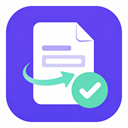
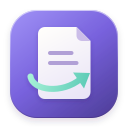
design: finalize soft ApplyFlow brand and verified controlled demo assets

diff --git a/content/content.js b/content/content.js
@@ -1,4 +1,6 @@
 (function initializeApplyFlowContent() {
+  // Generated from icons/brand.svg by scripts/export-brand.mjs.
[1 lines of base64/hex data omitted]
   if (globalThis.__applyFlowContentReady) {
     ensureOrb();
     scanPage().then(updateOrbCount);
@@ -791,7 +793,10 @@
     button.className = "applyflow-orb";
     button.type = "button";
     button.title = "打开 ApplyFlow";
-    button.textContent = "AF";
+    const brandImage = document.createElement("img");
+    brandImage.src = APPLYFLOW_BRAND_ICON_DATA;
+    brandImage.alt = "";
+    button.appendChild(brandImage);
     button.dataset.count = "0";
     button.addEventListener("click", async () => {
       button.disabled = true;

diff --git a/docs/brand/desk/form.html b/docs/brand/desk/form.html
@@ -1,0 +1,36 @@
+<!doctype html>
+<html lang="zh-CN">
+<head>
+  <meta charset="utf-8"><meta name="viewport" content="width=device-width, initial-scale=1">
+  <title>虚构校园招聘测试表单</title>
+  <link rel="stylesheet" href="/source/content/content.css">
+  <script src="bridge.js"></script>
+  <style>
+    *{box-sizing:border-box}body{margin:0;background:#fff;color:#282b40;font-family:-apple-system,BlinkMacSystemFont,'Segoe UI','Microsoft YaHei',sans-serif}.brand{height:66px;border-bottom:1px solid #eeedf3;display:flex;align-items:center;justify-content:space-between;padding:0 32px;font-weight:650;font-size:16px}.brand small{font-size:11px;color:#9899a8;font-weight:400}.content{padding:30px 32px 46px}.eyebrow{font-size:11px;color:#8c8e9f;letter-spacing:1px}h1{font-size:25px;margin:10px 0;font-weight:650;letter-spacing:-.5px}.meta{font-size:12px;color:#8a8b9d;margin:0 0 26px}.steps{display:flex;align-items:center;gap:13px;font-size:11px;color:#999baa;border-bottom:1px solid #eeedf3;padding-bottom:20px}.steps span:first-child{color:#6250e7;font-weight:650}.steps i{width:26px;height:1px;background:#dedee8}h2{font-size:14px;margin:24px 0 16px}h2::before{content:'';display:inline-block;width:3px;height:13px;border-radius:2px;background:#7c69ea;margin-right:8px;vertical-align:-1px}.grid{display:grid;grid-template-columns:1fr 1fr;gap:18px 20px}label{display:block;font-size:11px;color:#737589}label em{font-style:normal;color:#a4a5b3;margin-left:3px}input,select,textarea{font:inherit;font-size:13px;color:#373a50;display:block;margin-top:8px;height:41px;padding:0 12px;width:100%;border:1px solid #e0e1e9;border-radius:7px;background:#fff;outline:none;transition:border-color .2s,background .2s}input:focus,select:focus,textarea:focus{border-color:#8b7ce6;box-shadow:0 0 0 2px #6250e714}input::placeholder,textarea::placeholder{color:#b3b4c0}textarea{padding:12px;min-height:80px;resize:vertical}.wide{grid-column:1/-1}.caption{margin:9px 0 0;font-size:10px;line-height:1.6;color:#a2a3b0}.bottom{border-top:1px solid #efeff5;margin-top:25px;padding-top:17px;display:flex;align-items:center;justify-content:space-between}.bottom span{font-size:10px;color:#a2a3b0}.bottom button{font:inherit;font-size:11px;color:#9fa0ad;background:#f1f1f6;border:0;border-radius:7px;padding:10px 16px}.applyflow-filled{border-color:#4cae91!important;background:#f7fcfa!important;box-shadow:0 0 0 1px #4cae9110!important}@media(max-width:500px){.brand{padding:0 22px}.content{padding:24px 22px}.grid{gap:16px 14px}h1{font-size:23px}}
+  </style>
+</head>
+<body>
+  <header class="brand">青禾科技 <small>虚构测试招聘页面</small></header>
+  <main class="content">
+    <div class="eyebrow">2027 CAMPUS RECRUITMENT</div><h1>软件研发工程师</h1><p class="meta">技术研发 · 上海 · 校园招聘</p>
+    <nav class="steps"><span>01 基本资料</span><i></i><span>02 经历与能力</span><i></i><span>03 预览申请</span></nav>
+    <form onsubmit="event.preventDefault()">
+      <section><h2>个人信息</h2><div class="grid">
+        <label>中文姓名<em>*</em><input name="candidateName" placeholder="请输入姓名" autocomplete="off"></label>
+        <label>当前城市<input name="currentCity" placeholder="请输入现居城市" autocomplete="off"></label>
+        <label>手机号码<em>*</em><input name="mobile" placeholder="请输入手机号码" autocomplete="off"></label>
+        <label>电子邮箱<em>*</em><input type="email" name="email" placeholder="请输入电子邮箱" autocomplete="off"></label>
+      </div></section>
+      <section id="educationSection"><h2>教育经历</h2><div class="grid">
+        <label>院校名称<em>*</em><input name="school-1" placeholder="请输入院校名称" autocomplete="off"></label>
+        <label>所学专业<em>*</em><input name="major-1" placeholder="请输入所学专业" autocomplete="off"></label>
+        <label>学历<em>*</em><select name="education-1" aria-label="学历"><option value="">请选择学历</option><option>本科</option><option>硕士研究生</option><option>博士研究生</option></select></label>
+        <label>预计毕业时间<em>*</em><input type="month" name="eduEnd-1"></label>
+      </div></section>
+      <section><h2>补充信息</h2><div class="grid"><label class="wide">招聘信息来源<select id="recruitmentSource" name="recruitmentSource" aria-label="招聘信息来源"><option value="">请选择实际了解渠道</option><option>学校就业平台</option><option>企业官网</option><option>校园宣讲会</option></select></label></div><p class="caption">请根据个人实际情况选择招聘渠道。</p></section>
+      <div class="bottom"><span>演示表单 · 不会发送申请数据</span><button type="submit" disabled>下一步</button></div>
+    </form>
+  </main>
+  <script src="/source/shared/schema.js"></script><script src="/source/content/content.js"></script>
+</body>
+</html>

diff --git a/docs/brand/desk/index.html b/docs/brand/desk/index.html
@@ -1,0 +1,32 @@
+<!doctype html>
+<html lang="zh-CN">
+<head>
+  <meta charset="utf-8"><meta name="viewport" content="width=device-width, initial-scale=1">
+  <title>ApplyFlow · 真实组件受控演示</title>
+  <style>
+    *{box-sizing:border-box}body{margin:0;background:#eff0f7;color:#222338;font-family:-apple-system,BlinkMacSystemFont,'Segoe UI','Microsoft YaHei',sans-serif}.desk{max-width:1340px;margin:auto;padding:30px 44px 40px}.toolbar{display:flex;justify-content:space-between;align-items:center;margin-bottom:20px}.identity{display:flex;align-items:center;gap:11px;font-size:20px;font-weight:650}.identity img{width:36px;height:36px;border-radius:10px}.note{font-size:12px;color:#73758a;font-weight:400}.controls{display:flex;gap:8px}.controls button{font:inherit;font-size:12px;border:1px solid #dadce7;border-radius:20px;padding:9px 14px;background:#fff;color:#58596e;cursor:pointer}.workspace{display:grid;grid-template-columns:minmax(450px,1fr) 374px;border:1px solid #dbdce8;box-shadow:0 22px 55px #24234314;border-radius:20px;overflow:hidden;background:white}.panel{border-left:1px solid #e7e7ef;background:#fafafd}.panel-head{height:48px;display:flex;align-items:center;gap:8px;padding:0 18px;font-size:13px;font-weight:600;border-bottom:1px solid #e7e7ef}.panel-head img{width:22px;height:22px}.panel-head span{margin-left:auto;font-size:10px;font-weight:400;color:#9395a2}iframe{display:block;border:0;width:100%;height:740px}.recruitment{height:788px}.foot{margin:14px 4px 0;color:#818396;font-size:11px;line-height:1.6}@media(max-width:950px){.desk{padding:20px}.workspace{grid-template-columns:minmax(360px,1fr) 344px}}@media(max-width:730px){.workspace{grid-template-columns:1fr}.toolbar{align-items:start;gap:16px}.identity{flex-wrap:wrap}.note{width:100%}.controls{flex-wrap:wrap;justify-content:end}.recruitment{height:690px}.panel{border-left:0;border-top:1px solid #e7e7ef}iframe{height:680px}}
+  </style>
+  <style>
+    .workspace{height:calc(100dvh - 142px);min-height:480px;max-height:820px}.recruitment{height:100%}.panel{display:grid;grid-template-rows:48px minmax(0,1fr);min-height:0}iframe{height:100%}@media(max-width:730px){.workspace{height:auto;max-height:none}.recruitment{height:620px}.panel{height:640px}}
+  </style>
+  <script>
+    const profile={basic:{nameZh:'林晨曦',nameEn:'Chenxi Lin',phone:'13800138027',email:'chenxi.lin.test@example.com',gender:'女',currentCity:'上海'},education:[{school:'上海交通大学',major:'计算机科学与技术',level:'硕士研究生',endDate:'2027-06'}],preferences:{recruitmentSource:''}};
+    const memory={profile,usageStats:{filledFields:0,savedSeconds:0}};
+    const events=[];
+    function pageMessage(type){return new Promise((resolve,reject)=>{const page=document.querySelector('#form').contentWindow;if(!page.__applyflowListeners?.length){reject(new Error('Form not ready'));return;}const event={type,at:new Date().toISOString()};events.push(event);let handled=false;for(const fn of page.__applyflowListeners){const result=fn({type},{tab:{id:1}},value=>{event.result=value;resolve(value)});handled ||= Boolean(result)}if(!handled && !['APPLYFLOW_HIDE_ORB','APPLYFLOW_SHOW_ORB'].includes(type))reject(new Error('Unhandled message'));});}
+    function reset(){location.reload()}
+    function review(){document.querySelector('#form').contentWindow.document.querySelector('#recruitmentSource').scrollIntoView({block:'center',behavior:'smooth'});document.querySelector('#panel').contentWindow.document.querySelector('#fieldList').lastElementChild?.scrollIntoView({block:'center',behavior:'smooth'});}
+    window.__materialEvidence={memory,events,pageMessage};
+  </script>
+</head>
+<body>
+  <main class="desk">
+    <header class="toolbar"><div class="identity"><img src="/source/icons/icon-128.png" alt="">ApplyFlow <span class="note">真实组件的受控演示 · 全部档案为虚构测试数据</span></div><div class="controls"><button onclick="reset()">重置演示</button><button onclick="review()">查看待处理项</button></div></header>
+    <section class="workspace" aria-label="招聘测试表单与真实 ApplyFlow 侧栏">
+      <iframe class="recruitment" id="form" src="form.html" title="虚构校园招聘测试表单" onload="document.querySelector('#panel').src='/source/sidepanel/sidepanel.html'"></iframe>
+      <aside class="panel"><div class="panel-head"><img src="/source/icons/icon-128.png" alt="">ApplyFlow<span>0.7.8</span></div><iframe id="panel" title="ApplyFlow 原版侧栏"></iframe></aside>
+    </section>
+    <p class="foot">识别、填写与侧栏均使用产品现有代码。此工作台以本地消息桥替代扩展运行环境；表单为依据项目测试字段制作的虚构场景，不会提交申请。</p>
+  </main>
+</body>
+</html>

diff --git a/docs/brand/desk/bridge.js b/docs/brand/desk/bridge.js
@@ -1,0 +1,19 @@
+// Local-only adapter: real content listeners calculate scan/fill results against the fixture DOM.
+// No UI-test canned responses, persistence, product source edits, or real personal data.
+globalThis.__applyflowListeners = [];
+globalThis.chrome = {
+  storage: { local: {
+    get: async (key) => typeof key === 'string' ? { [key]: parent.__materialEvidence.memory[key] } : { ...parent.__materialEvidence.memory },
+    set: async (values) => { Object.assign(parent.__materialEvidence.memory, values); },
+  } },
+  tabs: {
+    query: async () => [{ id: 1 }],
+    sendMessage: async (_tabId, message) => parent.pageMessage(message.type),
+  },
+  runtime: {
+    onMessage: { addListener: (listener) => globalThis.__applyflowListeners.push(listener) },
+    connect: () => ({ postMessage() {}, onMessage: { addListener() {} }, onDisconnect: { addListener() {} } }),
+    sendMessage: async () => ({ ok: true }),
+    openOptionsPage: async () => { alert('此素材工作台仅使用虚构档案，不打开真实档案。'); },
+  },
+};

diff --git a/profile/profile.html b/profile/profile.html
@@ -4,11 +4,12 @@
     <meta charset="utf-8" />
     <meta name="viewport" content="width=device-width, initial-scale=1" />
     <title>我的档案 · ApplyFlow</title>
+    <link rel="icon" href="../icons/icon-32.png">
     <link rel="stylesheet" href="profile.css" />
   </head>
   <body>
     <header>
-      <div><strong>ApplyFlow</strong><span>我的求职档案</span></div>
+      <div class="product-identity"><img src="../icons/icon-48.png" width="32" height="32" alt=""><div><strong>ApplyFlow</strong><span>我的求职档案</span></div></div>
       <div class="header-actions">
         <button id="exportButton" class="secondary">导出档案</button>
         <label class="secondary file-button">导入 JSON<input id="importInput" type="file" accept="application/json" /></label>

diff --git a/profile/profile.css b/profile/profile.css
@@ -41,3 +41,5 @@ h1 { margin:0; font-size:19px; }
 .toast { position:fixed; right:28px; bottom:28px; padding:12px 18px; border-radius:10px; background:#272936; color:#fff; opacity:0; transform:translateY(8px); transition:.2s; pointer-events:none; font-size:13px; }
 .toast.visible { opacity:1; transform:translateY(0); }
 @media (max-width:760px) { header{padding:0 16px}.secondary{display:none}main{display:block;width:calc(100% - 24px);margin-top:12px}aside{display:none}.grid{grid-template-columns:1fr}.header-actions{gap:6px}.file-button{display:none}section{padding:18px} }
+
+.product-identity{display:flex;align-items:center;gap:10px}.product-identity>img{display:block;flex:none}

diff --git a/sidepanel/sidepanel.html b/sidepanel/sidepanel.html
@@ -4,10 +4,12 @@
     <meta charset="utf-8" />
     <meta name="viewport" content="width=device-width, initial-scale=1" />
     <title>ApplyFlow</title>
+    <link rel="icon" href="../icons/icon-32.png">
     <link rel="stylesheet" href="sidepanel.css" />
   </head>
   <body>
     <main>
+      <div class="product-identity"><img src="../icons/icon-48.png" width="28" height="28" alt=""><span>ApplyFlow</span></div>
       <section id="emptyState" class="state-card hidden">
         <div class="state-icon">◎</div>
         <h1>当前页面尚未开启</h1>

diff --git a/content/content.css b/content/content.css
@@ -60,3 +60,5 @@
   outline: 2px solid rgba(255, 180, 56, 0.75) !important;
   outline-offset: 2px !important;
 }
+
+#applyflow-root .applyflow-orb > img{display:block!important;width:38px!important;height:38px!important;min-width:38px!important;max-width:38px!important;border:0!important;object-fit:contain!important;pointer-events:none!important}

diff --git a/sidepanel/sidepanel.css b/sidepanel/sidepanel.css
@@ -61,3 +61,5 @@ footer button { height: 38px; padding: 0 15px; border: 1px solid var(--line); bo
   footer button { padding-inline: 10px; }
   #totalSaved { display: none; }
 }
+
+.product-identity{display:flex;align-items:center;gap:8px;margin:0 0 14px;font-size:13px;font-weight:650;color:#534c67}.product-identity img{display:block;flex:none}

diff --git a/docs/brand/README.md b/docs/brand/README.md
@@ -1,0 +1,9 @@
+# ApplyFlow 正式品牌素材
+
+日期：2026-10-27。隔离副本源码基线8f1b052，manifest/package 0.7.8，加品牌改动。用户原目录的0.8.7功能修改未复制、覆盖或提交。母版为 `../../icons/brand.svg`，浏览器16/32/48/128与商店300/1024PNG由 `../../scripts/export-brand.mjs` 导出；侧栏、档案页和浮球共用这些品牌资产。
+
+`before.jpg`、`after.jpg` 为1265×889浏览器原始JPEG，`review.jpg` 为1280×900。`sidebar.jpg` 为填写后实际右侧栏374×756采集局部；`before-sidebar.jpg` 与 `review-sidebar.jpg` 分别为扫描、人工检查状态的374×576实际采集局部。素材没有图像合成或UI重绘。姓名、号码、邮箱、院校与招聘组织均为项目测试数据或虚构场景，不会发送申请。`after.jpg`实际显示8项写入的成功样式；`review.jpg`保留招聘来源空白及待处理提示。1分10秒为原产品算法估算，不能称为实际节省时间测量。
+
+从项目根目录运行 `node tools/brand-preview.mjs`，打开 `http://127.0.0.1:4199/`。工作台只读加载本项目sidepanel HTML/CSS/JS、shared/schema.js与content脚本；浏览器存储、活动标签和消息由内存桥替代，扫描与填写均由实际content listener计算，不返回预设的数量。点击“智能填写字段”后再点“查看待处理项”可复现。重置演示重新加载内存状态。服务只监听本机并显式限制可读文件，不读取profile或真实档案。
+
+品牌界面已在本工作台实际查看；未验证扩展安装、商店发布、后台生命周期、真实招聘网站兼容或完整业务回归。图片SHA-256与观察值见 `verification.json`。

diff --git a/README.md b/README.md
@@ -1,8 +1,20 @@
 # ApplyFlow 校招填表助手 MVP
 
+<img src="icons/brand.svg" width="96" height="96" alt="ApplyFlow 正式图标">
+
+2026-10-26品牌更新：保留文档与薄荷色填写流向，精简小尺寸细节，统一浏览器图标、侧栏和档案页的品牌。业务能力与主动填写边界保持不变。
+
 一个不接入 AI、以 Microsoft Edge 为主要发布平台的 Manifest V3 浏览器插件。它只处理招聘官网中明确、通用、重复的简历字段；证件等个人字段仅在用户已保存明确值并主动点击填写时使用，公司特有和主观问题仍由用户自行填写。由于 Edge 基于 Chromium，当前代码也尽量保持与 Chrome 兼容。
 
 > 当前源码版本：0.7.8。项目仍处于 MVP 阶段，请在正式投递前检查所有自动填写结果。
+
+## 正式品牌预览
+
+![真实组件填写虚构招聘表单](docs/brand/after.jpg)
+
+<img src="docs/brand/sidebar.jpg" width="320" alt="ApplyFlow 正式品牌侧栏">
+
+本次素材对应本隔离副本的0.7.8源码：真实扫描识别9项，其中8项可填；点击原侧栏按钮后8项DOM字段实际写入，招聘来源保持空白供人工选择。时间为产品算法估算。浏览器API由本地内存消息桥替代，全部档案与招聘页面为虚构测试数据。未改动原工作副本的0.8.7功能，也未上传商店。复现与边界见 [品牌素材说明](docs/brand/README.md)。
 
 ## 当前能力
 
